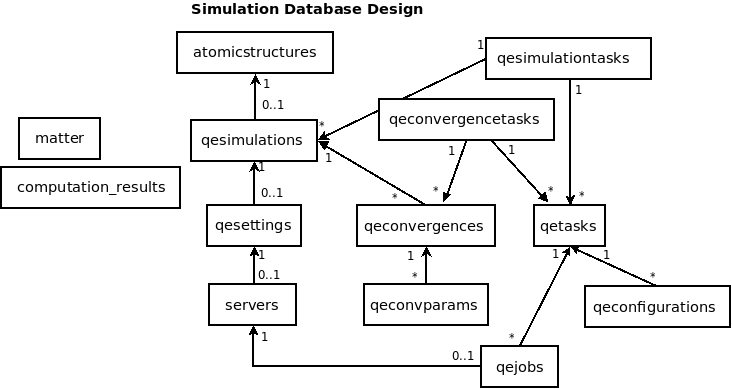
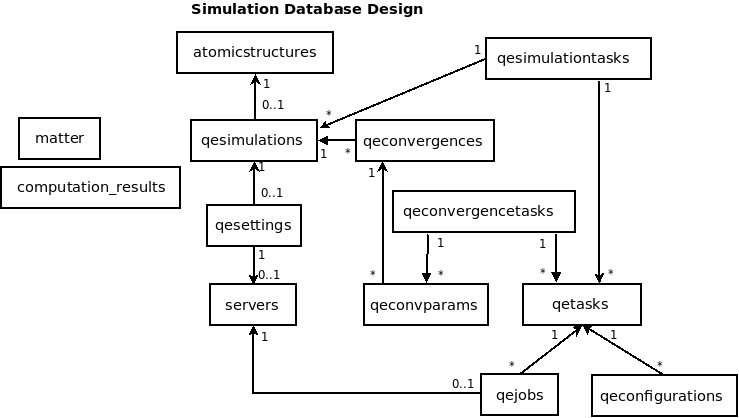
Changed database schema: QEConvParamTask replaces QEConvergenceTask.
git-svn-id: svn://danse.us/VNET/vnf/branches/beta-useluban/vnfb@2632 056da4b6-1853-4d91-9082-68a8d0adb2e4

Changed region(s): [[0.0, 0.0, 1.0, 1.0], [0.5109, 0.8329, 0.6612, 0.8638]]

diff --git a/vnfb/dom/QEConvParamTask.py b/vnfb/dom/QEConvParamTask.py
@@ -21,14 +21,14 @@ Notes:
 
 from vnfb.components.QETable import QETable
 
-class QEConvergenceTask(QETable):
+class QEConvParamTask(QETable):
 
-    name = "qeconvergencetasks"
+    name = "qeconvparamtasks"
     import dsaw.db
 
-    convergenceid    = dsaw.db.varchar(name="convergenceid", length=64)
-    convergenceid.constraints = 'REFERENCES qeconvergences (id)'    # Important
-    convergenceid.meta['tip'] = "convergenceid"
+    convparamid    = dsaw.db.varchar(name="convparamid", length=64)
+    convparamid.constraints = 'REFERENCES qeconvparams (id)'    # Important
+    convparamid.meta['tip'] = "convparamid"
 
     taskid    = dsaw.db.varchar(name="taskid", length=64)
     taskid.constraints = 'REFERENCES qetasks (id)'    # Important

diff --git a/vnfb/dom/Make.mm b/vnfb/dom/Make.mm
@@ -60,7 +60,7 @@ EXPORT_PYTHON_MODULES = \
 	Privilege.py \
         QEConfiguration.py \
         QEConvergence.py \
-        QEConvergenceTask.py \
+        QEConvParamTask.py \
         QEJob.py \
         QEConvParam.py \
         QESetting.py \
